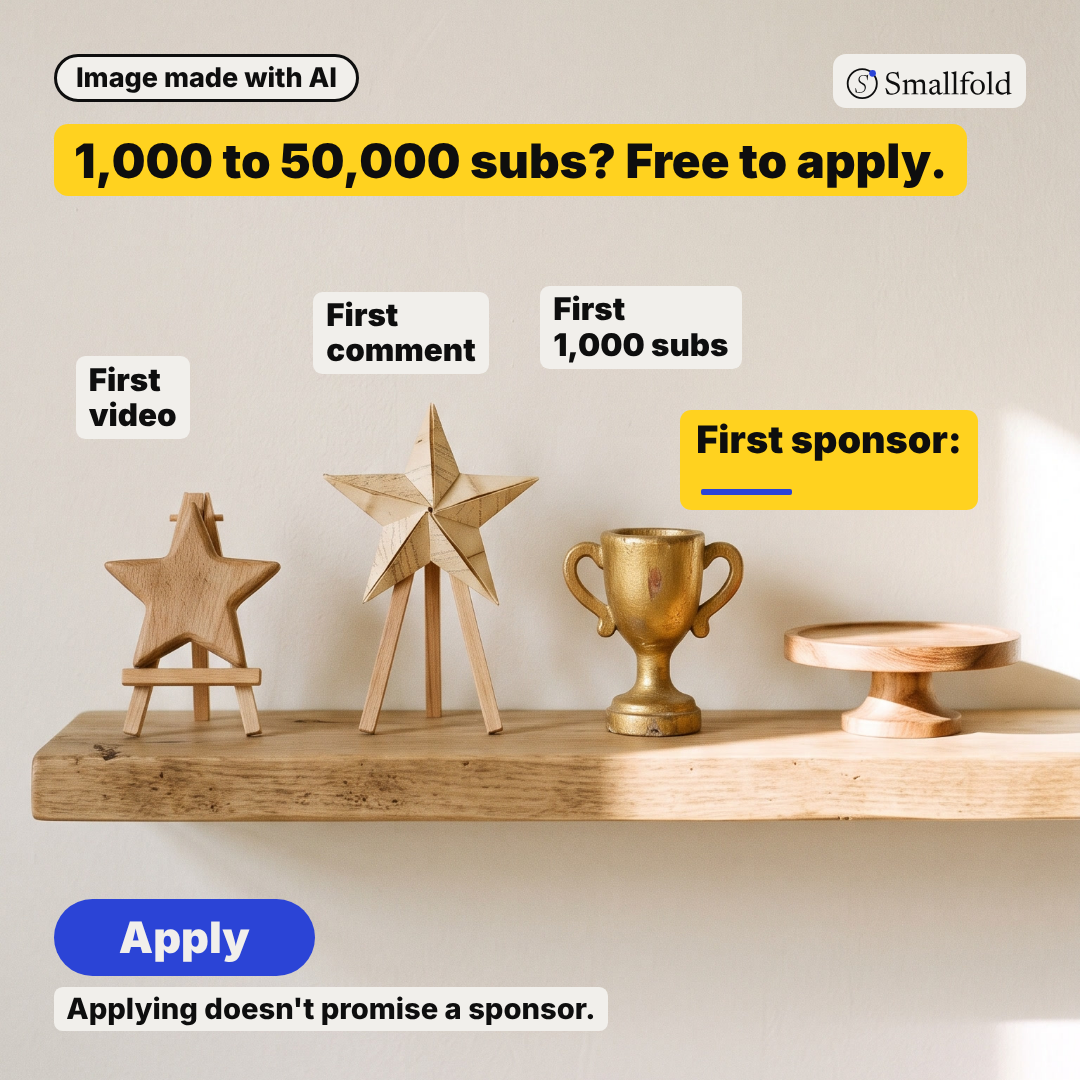
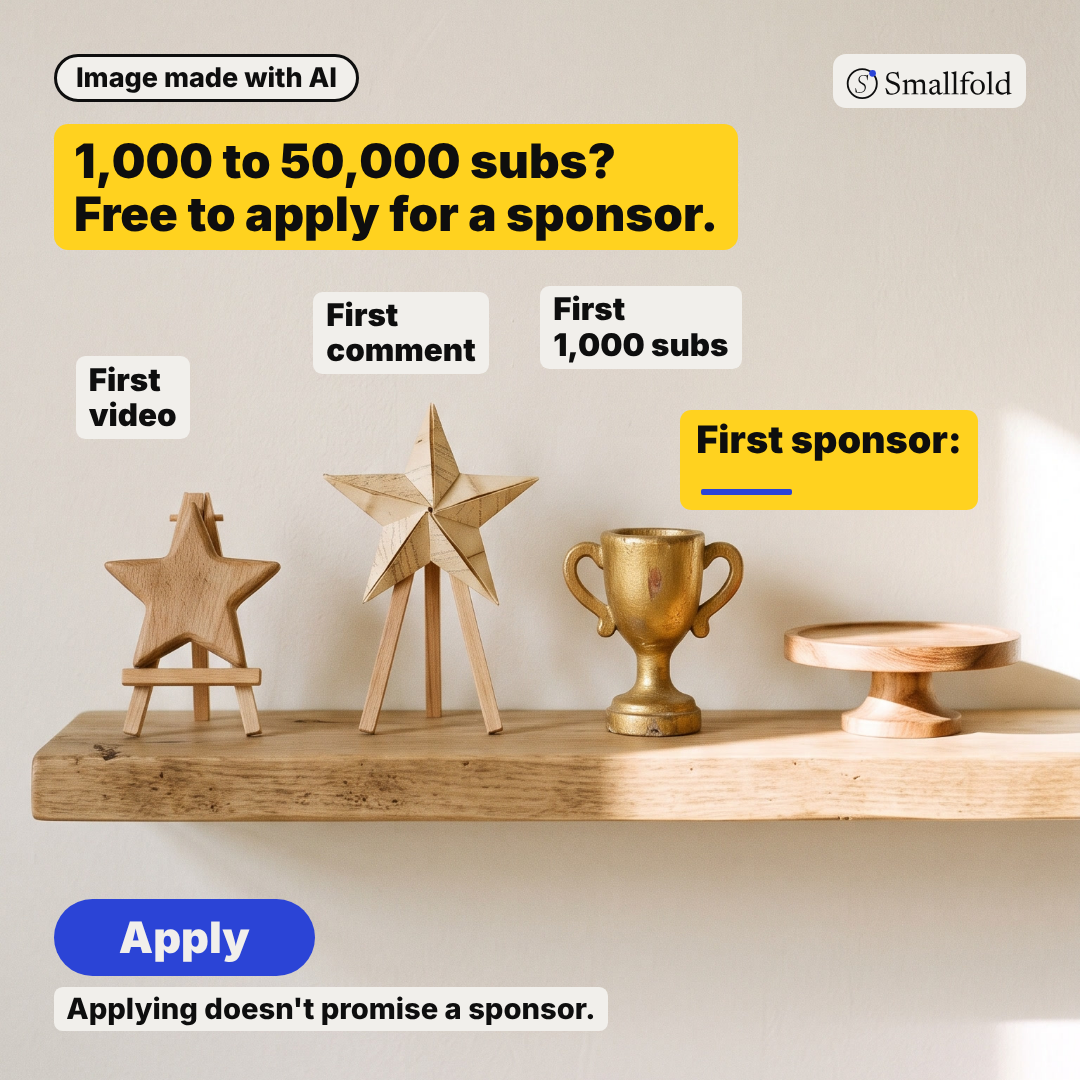
Marketing v2: compliance check of the static ads and the fixes (retouches, clearer headline, labels, safe zones)
Claude-Session: https://claude.ai/code/session_01C9y4eM2ouem5CxaBRuPxVL

Changed region(s): [[0.0306, 0.0917, 0.9167, 0.2444]]

diff --git a/marketing/v2/compliance-report.md b/marketing/v2/compliance-report.md
@@ -1,0 +1,109 @@
+# Compliance and quality report: ten static ads (version 2)
+
+## Fixes applied after this check (23 November 2026)
+
+The report below is the checker's original finding on the first build. The team leader then made these changes and rebuilt all ten ads.
+
+| Finding | What was done |
+|---|---|
+| Disclaimer inside the bottom 20% on `the-credits_9x16` and `next-first_9x16` | Both text blocks moved up; the disclaimer now ends above the 80% line. |
+| Possible lettering in the photographs | Checked at 200% and painted out where real: a red tab with letters on the apron, a tiny label on the ring light, a speck on the wall, a faint round mark on the sweatshirt hem; the screen edge at the left of The Gap is softened. The wall sockets are plain sockets and were left. |
+| The Line: a sponsor read with no "Pretend" label; logo close to the blank on the 9:16 | "Pretend" label added to both sizes. On the 9:16 the logo moved to the bottom right, away from the blank. |
+| "Apply for a sponsor. Free." could read as the sponsor being free; square headlines did not say what you apply for | Every headline now reads "1,000 to 50,000 subs? Free to apply for a sponsor." |
+| `the-gap_1x1` unclear at a glance | "[crickets]" caption added inside the empty frame. Still the least obvious of the five; test it last. |
+| Finger counts | Checked at 200%: every visible hand has five fingers. |
+
+Not re-checked by the checker after these fixes; the team leader reviewed the rebuilt images.
+
+
+Date: 23 November 2026. Checked against `product-brief.md` (sections 2, 9, 10) and `tools/statics.json`. I opened every PNG and looked at it at the size the Read tool shows (1080 wide). I did not zoom in or crop, so every "tiny lettering" finding below is "appears to be" and needs a 200% check before it is called fixed or cleared.
+
+## 1. Verdict
+
+No ad is rejected. None says or clearly implies "you will get a sponsor", none shows a result, review or money amount, none fills in the blue blank, and no commission or "2 working days" text appears. Every ad has the "Image made with AI" label, the Smallfold logo, the disclaimer "Applying doesn't promise a sponsor." and the Apply button. The numbers "1,000 to 50,000" are written correctly everywhere.
+
+Three kinds of problem remain:
+
+1. Two 9:16 ads (the-credits and next-first) put the disclaimer inside the bottom 20% that app buttons cover. The disclaimer is a required line, so this must be fixed.
+2. Three photographs appear to contain tiny lettering or marks (apron tag, sweater hem, ring-light neck) and one has a monitor at the edge of the frame. These are the AI-glitch items the brief says to remove.
+3. The 9:16 headline "Apply for a sponsor. Free." can read as "the sponsor is free". Only joining is free; commission is charged once a deal is done. The 1x1 wording "Free to apply." is accurate. The 9:16 wording should match it.
+
+Also, the-line puts an AI person in a selfie saying "This video is sponsored by ____" with no "Pretend" label. That is the same kind of acted sponsor moment as Missing Sponsor, which does carry the label.
+
+| Ad | Verdict | Single most important issue |
+|---|---|---|
+| the-line_1x1 | FIX | Person acts out a sponsor read with no "Pretend" label; tiny lettering on the ring-light neck |
+| the-line_9x16 | FIX | No "Pretend" label; Smallfold logo sits directly above the blank, so it can read as "sponsored by Smallfold" |
+| missing-sponsor_1x1 | PASS | Only a check: finger count of the hand under the box (cropped, cannot confirm) |
+| missing-sponsor_9x16 | FIX | A small tag with lettering appears on the apron strap (about x 518, y 1385) |
+| the-credits_1x1 | PASS | No blocking issue. Optional: headline does not say "for a sponsor" |
+| the-credits_9x16 | FIX | Disclaimer sits at y 1523-1573, inside the bottom 20% (starts at y 1536) |
+| the-gap_1x1 | FIX | Idea is unclear at a glance (smiling man, faint empty frame, "(empty)"); hand shape looks wrong |
+| the-gap_9x16 | FIX | A monitor with faint text and a wall socket with markings sit at the frame edges |
+| next-first_1x1 | PASS | Headline says "Free to apply." but not what you apply for; "sponsor" appears only in smaller text |
+| next-first_9x16 | FIX | Disclaimer sits at y 1523-1573, inside the bottom 20% |
+
+## 2. Every problem found (most serious first)
+
+Coordinates are in pixels on the 1080-wide image as rendered (9:16 is 1080 x 1920, so the top 10% is y 0-192 and the bottom 20% is y 1536-1920).
+
+| Ad | What I saw | Rule | Exact fix |
+|---|---|---|---|
+| the-credits_9x16 | The "Applying doesn't promise a sponsor." strip runs from about y 1523 to y 1573. The bottom 20% starts at y 1536, so the strip is inside the area app buttons cover. The Apply button (y 1412-1503) is fine. | Layout rule D (9:16 bottom 20%); the disclaimer must be readable on every ad | In `statics.json` change the `the-credits` `tall` stack so it ends no lower than y 1520. For example set `y` from 47.5 to 44 (about 70 px higher) or reduce the gaps. Re-render and check that the strip's bottom edge is above y 1536. |
+| next-first_9x16 | Same problem. The stack at `y: 73.5` puts the disclaimer at about y 1523-1573. | Layout rule D | Change the Apply stack from `"y": 73.5` to `"y": 70.5` (or use `"bottom": 20.5` like the other ads). The shelf ends at about y 1375, so there is room. |
+| missing-sponsor_9x16 | A small tag with printed letters appears on the orange apron strap, at about x 518, y 1385, just under his hand. It looks like a clothing label with 3 to 5 characters. | Photo rule C and section 8 ("no readable lettering in generated shots") | Retouch the tag out (fill with apron colour), or crop the photo so the tag is out of frame. Check the 1x1 crop for the same spot (not visible there). |
+| the-credits_9x16 | A small embossed mark that looks like two letters sits on the lower sweater, at about x 650, y 1722. A wall socket at bottom left (about x 170, y 1735) shows faint marks. | Photo rule C (letters, marks, sockets) | Paint out the sweater mark. Blur or paint out the socket markings, or crop the socket out (it is at the very bottom, so a small upward re-crop may remove it). |
+| the-gap_9x16 | At the left edge, about y 1290-1500, there is a monitor or laptop screen with faint small text. A wall socket with markings is cut off at the bottom right (about x 900, y 1880). A pan handle crosses the area behind the Apply button and the disclaimer. | Section 8 ("no readable screen, logo or lettering"); rule C | Retouch the screen to a plain dark panel or crop the left edge. Paint out the socket marks. Move the pan out of frame if it can be done cleanly, otherwise accept it as a plain object (it has no lettering). |
+| the-line_1x1 | An AI person in a selfie pose says, in the ad text, "This video is sponsored by ____" with no "Pretend" label. It reads like a creator who is doing a sponsor read, close to "a person who has a sponsor". Missing Sponsor, which does the same kind of acting, carries "Pretend". | Section 9 (AI people never pose as customers); check A | Add the coral "Pretend" label under "Image made with AI" (same style as missing-sponsor: `{"type":"label pretend","text":"Pretend","gap":0.5}`). Apply to both sizes. |
+| the-line_9x16 | Same missing "Pretend" label. The Smallfold logo (x 781-1015, y 203-272) sits directly above the right end of the "sponsored by ____" box, and the blue blank (x 618-797, y 458) is in the same column area. A fast glance can read "sponsored by [Smallfold]". | Check B (logo not next to the blank) | Add "Pretend". Move the logo away from this cluster, for example to the bottom right above the safe zone, or shift the caption box lower so the gap between logo and blank is at least 300 px. In 1x1 the gap is larger (the blank is at x 500-645, logo at x 833-1025), so only keep an eye on it. |
+| the-line_1x1 and the-line_9x16 | A tiny line of lettering appears on the neck of the ring-light stand (about x 905, y 785 in 1x1; x 905, y 1080 in 9:16). The camera on the tripod at the right also has small marks that may be a brand mark. | Photo rule C | Retouch the lettering off the ring-light neck. Check the camera body at 200% and remove any mark. |
+| the-gap_1x1 | The frame on the wall is a thin white line (about x 610-1000, y 265-805) on a pale wall, so contrast is very low. The man is smiling happily next to "(empty)", which sends mixed signals. His open hand (x 760-1010, y 760-810) looks flat and long, and I cannot count five clear fingers. A jar at the left edge (about x 10-30, y 460-540) may carry a label. | Check C (fingers), check E (clear idea) | Re-run the photo for a better hand, or crop so the hand is not the focus. Thicken the frame line to at least 4 px and make it darker or add a shadow. Crop out or retouch the jar. Consider a neutral or rueful expression, or add "Pretend" (see next row). |
+| the-gap (both sizes) | A person acts out a sponsor moment ("The sponsor segment (empty)") with no "Pretend" label. This is milder than the-line because there is no spoken sponsor and no blank. | Check A | Add the "Pretend" label for consistency. Low priority. |
+| the-gap_9x16 | The "Image made with AI" label sits in the middle of the frame (x 627-963, y 998-1050) under "[crickets]" rather than at the top left like the other ads. It is readable, but easy to miss and inconsistent. | Check A (AI label present and readable) | Move it to the top left (x 6%, y 10.5%) as in the other ads. The logo is already at the top right. |
+| missing-sponsor_9x16 and _1x1 | The hand under the white box (9:16: x 520-970, y 1300-1600; 1x1: bottom edge, y 975-1050) is cropped or bunched, and I cannot count the fingers. It looks long. | Check C (count fingers) | Zoom to 200%. If you cannot count five clean fingers, crop the hand out or regenerate. |
+| All four 9:16 ads with the headline "Apply for a sponsor. Free." (the-line, missing-sponsor, the-credits, the-gap) | "Free." on its own can read as "the sponsor is free". Section 2 says only joining is free; commission is charged once a deal is done. The 1x1 wording "Free to apply." is exact. | Section 9 (honesty); section 7 lead offer "Free to apply." | Change the 9:16 headline to "1,000 to 50,000 subs?\nFree to apply for a sponsor." Same character count roughly; check it still fits the 88%-wide box on two lines. |
+| the-line_1x1, the-credits_1x1, the-gap_1x1, next-first_1x1 and next-first_9x16 | Headline is "1,000 to 50,000 subs? Free to apply." It does not say what you apply for. "Sponsor" is only in smaller text ("sponsored by", "Sponsored by:", "First sponsor:") and in the disclaimer. | Check E (is it clear what is offered) | Use the same wording as the 9:16 fix: "1,000 to 50,000 subs? Free to apply for a sponsor." (put it on two lines if needed). Most important for next-first, where "sponsor" is least prominent. |
+| the-line_9x16 | The disclaimer ends at about y 1525, only about 11 px above the bottom 20% line (y 1536). It passes, but there is no margin. missing-sponsor_9x16 and the-gap_9x16 have the same margin. | Layout rule D | No fix needed. If any text is made larger or the headline gets longer, move the whole stack up by about 20 px. |
+| All ten | The disclaimer text is about 26 to 28 px and the "Image made with AI" label is about the same. That is at the minimum for a phone. Contrast is good (black on light grey). | Layout rule D | Optional: raise the disclaimer and the AI label to about 30 px. Do this only if the layout still fits. |
+| the-credits_1x1 | The "Filmed by: you." box just touches the left edge of her chin and covers her hand and shoulder. It does not cover the eyes or mouth. | Layout rule D (text on a face) | No fix needed. If any change is made, nudge the first box 10 px lower or 10 px left. |
+| all ten | None of the ads says "You pay only if a deal is done" or "No deal, no commission" (the brief's lead offer). Nothing false is shown, but the pricing truth is not on the picture. | Section 7 lead offer | Owner decision. If wanted, add "No deal, no commission." as a second line in the headline box. Only the 1x1 ads have room for it without crowding. |
+
+Things I checked and found fine (not problems):
+
+- Spelling and numbers: all text matches `statics.json`. "1,000 to 50,000", "Free to apply", "Apply", "Applying doesn't promise a sponsor." are correct. No typos.
+- Blank: always a blue underline, never filled in.
+- Logo: present, readable and undistorted on all ten. It sits at the top right with the correct spacing from the blank, except the-line_9x16 (see above).
+- Faces and eyes: no obvious glitch in eyes, teeth, ears or glasses on the people in the-line, missing-sponsor, the-credits, the-gap. The glasses on the-credits woman look correct. I cannot confirm that no face resembles a real person; see section 4.
+- the-line hand: five fingers visible in both sizes.
+- next-first: no lettering in the photo. All four label chips line up with the right objects (video star, comment star, 1,000-subs trophy, empty plinth).
+- Top 10% of the 9:16 frames is clear in all five ads.
+- No other company's logo, no YouTube logo, no money amounts, no reviews, no urgency.
+
+## Bland test (section 10) for the statics
+
+| Ad | "Sponsor" readable at a glance | Clear what is offered and for whom | One specific promise | Could be mistaken for a stock ad |
+|---|---|---|---|---|
+| the-line | Yes, large in the caption box | Yes in 9:16; 1x1 only implies it | Yes: apply for a sponsor, free | Somewhat: a smiling influencer selfie is common, but the blank is distinctive |
+| missing-sponsor | Yes ("Today's sponsor:") | Yes | Yes | No. The "Missing" stamp makes it specific |
+| the-credits | Yes ("Sponsored by:") | Yes | Yes | No. "Filmed by: you / Edited by: you" is specific |
+| the-gap | Yes, but only in a small headline | Mostly | Yes | Somewhat. The empty frame and the "(empty)" label are weak |
+| next-first | Small ("First sponsor:") | Weakest of the five (see above) | Yes | Somewhat: trophy shelf looks like home-decor stock, saved by the labels |
+
+## 3. Which two to run first on the Meta feed
+
+Meta feed is the 1x1 format, so I picked from the 1x1 versions.
+
+1. **the-credits_1x1.** Cleanest of the ten: no layout problems, no visible glitch, five-line message in a natural reading order ("Filmed by: you. Edited by: you. Sponsored by: ____") that makes the missing piece obvious, the person stands for "you" and does not pose as a customer, and "Free to apply" plus the number are on screen. It needs no fixes before use (optional headline tweak).
+2. **missing-sponsor_1x1.** The strongest hook for the word "sponsor" ("Today's sponsor: ____ Missing") and the only ad that carries the "Pretend" label from the start. Check the cropped hand at 200% first. If you cannot count the fingers, crop it out.
+
+Test next-first_1x1 as a no-person comparison once the headline is changed to say what you apply for. Hold the-line and the-gap until the fixes above are made.
+
+## 4. What only the owner can do before publishing
+
+1. **Switch on each platform's AI label.** Meta ("AI info" label on feed and Reels), YouTube (altered or synthetic content setting), and any other platform you use. The "Image made with AI" label on the picture does not replace the platform setting. Section 9 says the owner publishes and switches this on.
+2. **Confirm the facts and the page.** Check that https://smallfold.netlify.app/apply is live and says the same things as the ads: free to apply, 1,000 to 50,000 subscribers, YouTube only, a person chooses by hand, you can turn down any sponsor. Keep the commission percentages and "reply within 2 working days" out of the ads until you confirm them in writing.
+3. **Decide on the pricing line.** Choose whether to add "No deal, no commission." to the pictures. It is accurate and in section 2, but not required.
+4. **Look at the faces.** I cannot tell whether any of the four generated people resembles a real person. A reverse-image search on each face before paying for ads is sensible. Also confirm Higgsfield's licence allows commercial use of the photographs.
+5. **Confirm you own the logo files.** The Smallfold logo must be your real file. The statics use it as a placed asset, not a generated one.
+6. **Check Meta policy wording.** "1,000 to 50,000 subs?" is a question aimed at a viewer. Meta restricts ads that imply they know personal facts about the viewer, though a subscriber count is not a protected attribute. Choose the Apply button as the call to action. Read the ad review result and rewrite as a statement ("For YouTube channels with 1,000 to 50,000 subscribers") if it is flagged.
+7. **Re-check the retouched photos at 200%** after the fixes above, since I could not zoom. In particular: apron tag (missing-sponsor_9x16), sweater mark and socket (the-credits_9x16), ring-light neck and camera (the-line), monitor (the-gap_9x16), and the hand under the box (missing-sponsor).

diff --git a/marketing/v2/assets-log.md b/marketing/v2/assets-log.md
@@ -7,9 +7,9 @@ Rule: one row per Higgsfield job, written when the job is submitted and complete
 | date | job id | model | picture | credits quoted | credits charged | saved as | status |
 |---|---|---|---|---|---|---|---|
 | 23 November 2026 | 7c9e325c-6745-4436-93f2-a9918f9f9c35, 5b9b0950-0f55-44e1-9b1f-57d8bbc40369 | soul_2 (2k, 9:16, x2) | J1 Presenter portrait | 0.24 | 0.24 (see total) | not kept [7c9e325c: rejected: garbled letters on clothing] ; not kept | completed |
-| 23 November 2026 | ecfe2d9d-57de-417a-b71e-f5413fa2e944, 1ae95381-937b-4f3a-9090-bedee1b37be4 | soul_2 (2k, 9:16, x2) | J2 The Line | 0.24 | 0.24 (see total) | assets/source/j2a-the-line.jpg ; assets/source/j2b-the-line.jpg | completed |
-| 23 November 2026 | bdc5e30b-f8cc-4750-9ff7-fe6377bb0da8, cc5c0d29-dd1c-424f-b7c1-dd466210aec5 | soul_2 (2k, 9:16, x2) | J3 Missing Sponsor | 0.24 | 0.24 (see total) | not kept ; assets/source/j3b-missing-sponsor.jpg | completed |
-| 23 November 2026 | 71e4a9eb-da88-456d-a4ae-d611ce7ed177 | soul_2 (2k, 9:16, x1) | J4 The Gap | 0.12 | 0.12 (see total) | assets/source/j4-the-gap.jpg | completed |
+| 23 November 2026 | ecfe2d9d-57de-417a-b71e-f5413fa2e944, 1ae95381-937b-4f3a-9090-bedee1b37be4 | soul_2 (2k, 9:16, x2) | J2 The Line | 0.24 | 0.24 (see total) | assets/source/j2a-the-line-clean.jpg (a tiny label on the ring light painted out) ; assets/source/j2b-the-line.jpg | completed |
+| 23 November 2026 | bdc5e30b-f8cc-4750-9ff7-fe6377bb0da8, cc5c0d29-dd1c-424f-b7c1-dd466210aec5 | soul_2 (2k, 9:16, x2) | J3 Missing Sponsor | 0.24 | 0.24 (see total) | not kept ; assets/source/j3b-missing-sponsor-clean.jpg (a red tab with letters on the apron painted out) | completed |
+| 23 November 2026 | 71e4a9eb-da88-456d-a4ae-d611ce7ed177 | soul_2 (2k, 9:16, x1) | J4 The Gap | 0.12 | 0.12 (see total) | assets/source/j4-the-gap-clean.jpg (a wall speck removed, a screen edge softened) | completed |
 | 23 November 2026 | 7afe9c61-b9df-4f36-81bd-aaacc4347332 | soul_2 (2k, 9:16, x1) | J5 The Credits | 0.12 | 0.12 (see total) | not kept | rejected: garbled letters on clothing |
 | 23 November 2026 | 2e5f9d36-fbe5-465d-b387-ae447d82e256 | nano_banana_pro requested (2k, 9:16, x1); job reported model nano_banana_2 | J6 Next First | 2.00 | 2.00 (see total) | assets/source/j6-next-first.jpg | completed |
 | 23 November 2026 | 46e72182-a330-47d7-8833-a7fe8c91869d, 3175adef-7047-484f-acb0-3d917c97eeeb | soul_2 (2k, 9:16, x2, reference image 1ae95381 used) | J7 Presenter portrait re-roll | 0.24 | 0.24 (see total) | not kept ; assets/source/j7b-portrait.jpg | completed |
@@ -32,7 +32,7 @@ The result links are not written here because this repository is public. The pic
 | J5 | Rejected: garbled letters on the sweatshirt. |
 | J6 | **Used** for Next First. |
 | J7 | Not what was asked (a hand raised, a smile, selfie framing). One kept as a possible presenter; the video's portrait should be made again on Higgsfield with the prompt in `README.md`. |
-| J8, first picture | **Used** for The Credits after two retouches: a tiny line of garbled letters on the chest and "0000"-like marks on the tripod grip were painted out (`assets/source/j8a-the-credits-clean.jpg`; the untouched file is beside it). |
+| J8, first picture | **Used** for The Credits after retouches: a tiny line of garbled letters on the chest, "0000"-like marks on the tripod grip and a faint round mark on the hem were painted out (`assets/source/j8a-the-credits-clean.jpg`; the untouched file is beside it). |
 
 ## Finished static ads
 
